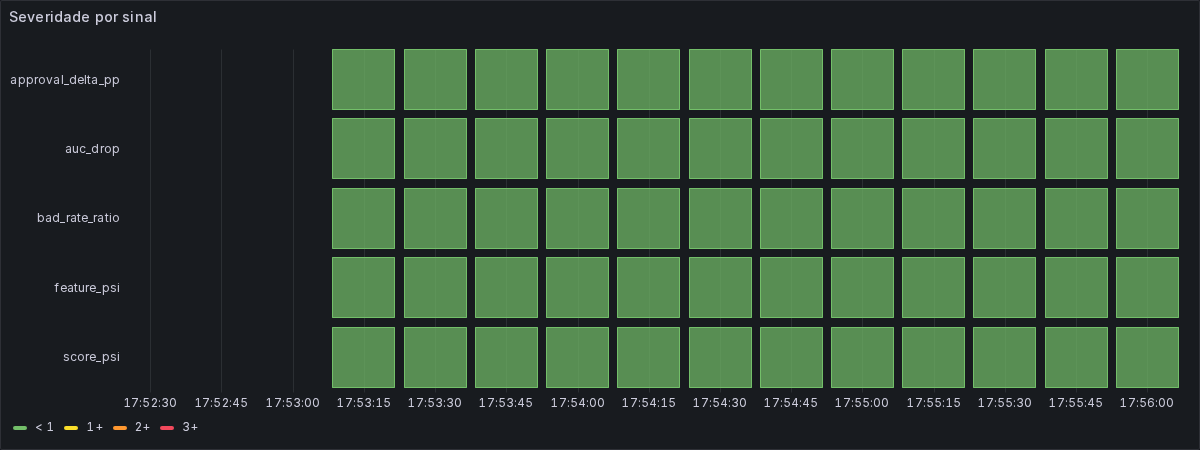
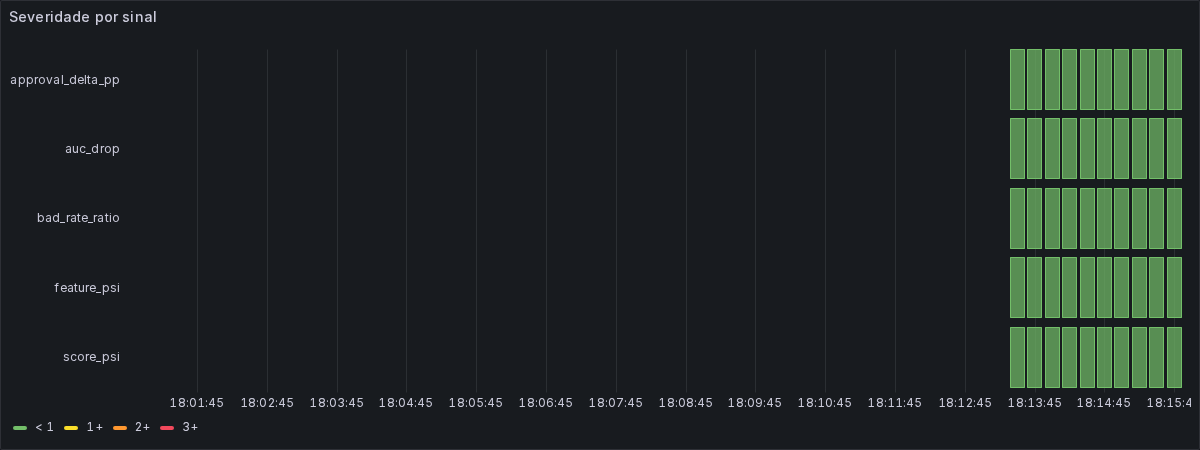
docs: registra replay do cenário S0 na stack recriada do zero com prints atualizados

diff --git a/docs/runs/INDEX.md b/docs/runs/INDEX.md
@@ -61,3 +61,4 @@ Observações humanas sobre os runs ficam na seção "Observações" de cada reg
 | [RUN-20261117-response-ALL-02](RUN-20261117-response-ALL-02.md) | 2026-11-17 | response | ALL | política (modo conservador por valor) vs. não fazer nada, US$ mil — S1: 0,0; S2: 2.737,0; S3: 2.544,1; S4: 0,0 | sim |
 | [RUN-20261117-monitor-S5-01](RUN-20261117-monitor-S5-01.md) | 2026-11-17 | monitor | S5 | pipeline: 60 lotes · 0 bloqueados · 0 etapas com falha · alertas {'CDM_AUC_DROP': 'SEV-1', 'CDM_BAD_RATE_RATIO': 'SEV-2', 'CDM_FAIRNESS_GAP': 'SEV-2', 'CDM_FEATURE_DRIFT': 'SEV-2', 'CDM_SOFT_RULES': 'SEV-1'} | sim |
 | [RUN-20261117-calib-ROBUST-02](RUN-20261117-calib-ROBUST-02.md) | 2026-11-17 | calib | ROBUST | fora da regra na magnitude oficial ou no controle: S2 m=1 | sim |
+| [RUN-20261117-monitor-S0-01](RUN-20261117-monitor-S0-01.md) | 2026-11-17 | monitor | S0 | pipeline: 12 lotes · 0 bloqueados · 0 etapas com falha · alertas {} | sim |

diff --git a/docs/runs/RUN-20261117-monitor-S0-01.md b/docs/runs/RUN-20261117-monitor-S0-01.md
@@ -1,0 +1,38 @@
+# RUN-20261117-monitor-S0-01
+
+> Gerado por `src/reporting/run_record.py`. Não editar números à mão.
+
+| Campo | Valor |
+|---|---|
+| Data | 2026-11-17 18:15 |
+| Tipo | monitor |
+| Git SHA | `43760e122d3e1e9f9b26cd4975d65578ba23d31f` |
+| Árvore limpa | sim |
+| Hash dos dados de entrada | `—` |
+| Cenário / seed | S0 / 0 |
+| Modelo | champion |
+| MLflow | experimento `monitoring` |
+| modo | replay |
+| push | True |
+
+## Métricas
+
+| Métrica | job |
+|---|---|
+| batches | 12 |
+| blocked | 0 |
+| duration_max_s | 2.2513 |
+| duration_p50_s | 1.8768 |
+| failed_steps | 0 |
+
+## Artefatos
+
+- `logs/RUN-20261117-monitor-S0-01.jsonl`
+- `logs/RUN-20261117-monitor-S0-01.summary.json`
+
+## Veredito
+
+pipeline: 12 lotes · 0 bloqueados · 0 etapas com falha · alertas {}
+
+## Observações
+
